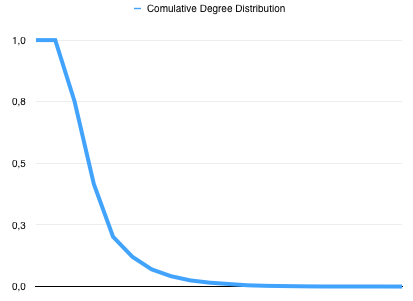
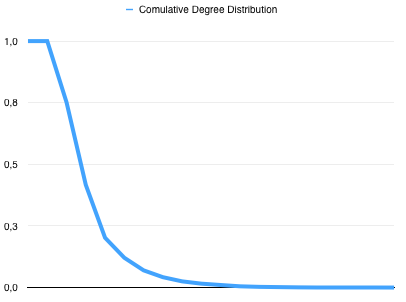
report stuff

diff --git a/report/main.tex b/report/main.tex
@@ -1,9 +1,11 @@
 \documentclass[a4paper,titlepage,11pt]{article}
 
+\usepackage[top=2.54cm, bottom=2.54cm, left=2.54cm, right=2.54cm]{geometry}
 \usepackage[utf8x]{inputenc}
 \usepackage{hyperref}
 \usepackage{graphicx}
 \usepackage{hyperref}
+\usepackage{multicol}
 
 \begin{document}
 
@@ -123,12 +125,28 @@ Because of that we advise the use of the \textit{get} methods for each variable.
 
 \section{Results}
 \subsection{Dataset}
-\subsubsection{adjnoun.gml}
+\subsubsection{power.gml}
 \textbf{Degree Distribution}
+
+\begin{figure}[h]
+    \centering
+    \includegraphics[scale=0.50]{img/dd-dataset.png}
+\end{figure}
+
+\textbf{Comulative Degree Distribution}
+
+\begin{figure}[h]
+    \centering
+    \includegraphics[scale=0.50]{img/cdd-dataset.png}
+\end{figure}
 
 \textbf{Clustering Coefficient}
 
+0,0801036110816
+
 \textbf{Average Path Length}
+
+18.9891854244
 
 
 \subsubsection{Properties}
@@ -150,6 +168,40 @@ Because of that we advise the use of the \textit{get} methods for each variable.
 \]
 
 \subsection{Random Graph}
+\textbf{Degree Distribution}
+
+\begin{figure}[h]
+    \centering
+    \includegraphics[scale=0.50]{img/dd-1000-0.05.png}
+\end{figure}
+
+\begin{figure}[h]
+    \centering
+    \includegraphics[scale=0.50]{img/dd-5000-0.05.png}
+\end{figure}
+
+\textbf{Comulative Degree Distribution}
+
+\begin{figure}[h]
+    \centering
+    \includegraphics[scale=0.50]{img/cdd-1000-0.05.png}
+\end{figure}
+
+\begin{figure}[h]
+    \centering
+    \includegraphics[scale=0.50]{img/cdd-5000-0.05.png}
+\end{figure}
+
+\textbf{Clustering Coefficient}
+
+0,0489560526611
+
+0,0500573403275
+
+\textbf{Average Path Length}
+2.03192392392
+
+1,94997655531
 
 
 \subsubsection{Properties}
@@ -166,11 +218,49 @@ Because of that we advise the use of the \textit{get} methods for each variable.
   APL = \langle L\rangle \simeq \frac{\ln{N}}{\ln{k}}
 \]
 
+\subsection{Minimal Graph}
+\textbf{Degree Distribution}
+
+\begin{figure}[h]
+    \centering
+    \includegraphics[scale=0.50]{img/dd-minimal-3-1000.png}
+\end{figure}
+
+\begin{figure}[h]
+    \centering
+    \includegraphics[scale=0.50]{img/dd-minimal-3-5000.png}
+\end{figure}
+
+\textbf{Comulative Degree Distribution}
+
+\begin{figure}[h]
+    \centering
+    \includegraphics[scale=0.50]{img/cdd-minimal-3-1000.png}
+\end{figure}
+
+\begin{figure}[h]
+    \centering
+    \includegraphics[scale=0.50]{img/cdd-minimal-3-5000.png}
+\end{figure}
+
+\textbf{Clustering Coefficient}
+
+0,74002881762
+
+---
+
+\textbf{Average Path Length}
+
+4.71825625626
+
+---
+
 \section{Reference}
 \begin{description}
   \item[Python] \href{https://www.python.org}{www.python.org}
   \item[networkx] \href{https://networkx.github.io}{networkx.github.io}
   \item[Lecture Slides]
+  \item[Power Dataset] \href{https://github.com/gephi/gephi/wiki/Datasets#infrastructure-networks}{github.com/gephi/gephi/wiki/Datasets#infrastructure-networks}
   \item[The Barabási-Albert Model] \href{http://barabasilab.neu.edu/networksciencebook/download/network_science_december_ch5_2013.pdf}{barabasilab.neu.edu/networksciencebook/download/network_science_december_ch5_2013.pdf}
 \end{description}
 

diff --git a/src/graphlib.py b/src/graphlib.py
@@ -334,7 +334,7 @@ def main():
     print 'generated 3-1000'
     g1 = generate_minimal(3, 1000)
     print 'generated 3-5000'
-    g2 = generate_random_graph(3, 5000)
+    g2 = generate_minimal(3, 5000)
 
     print '1 degree_distribution'
     f31.write('degree_distribution\n')
